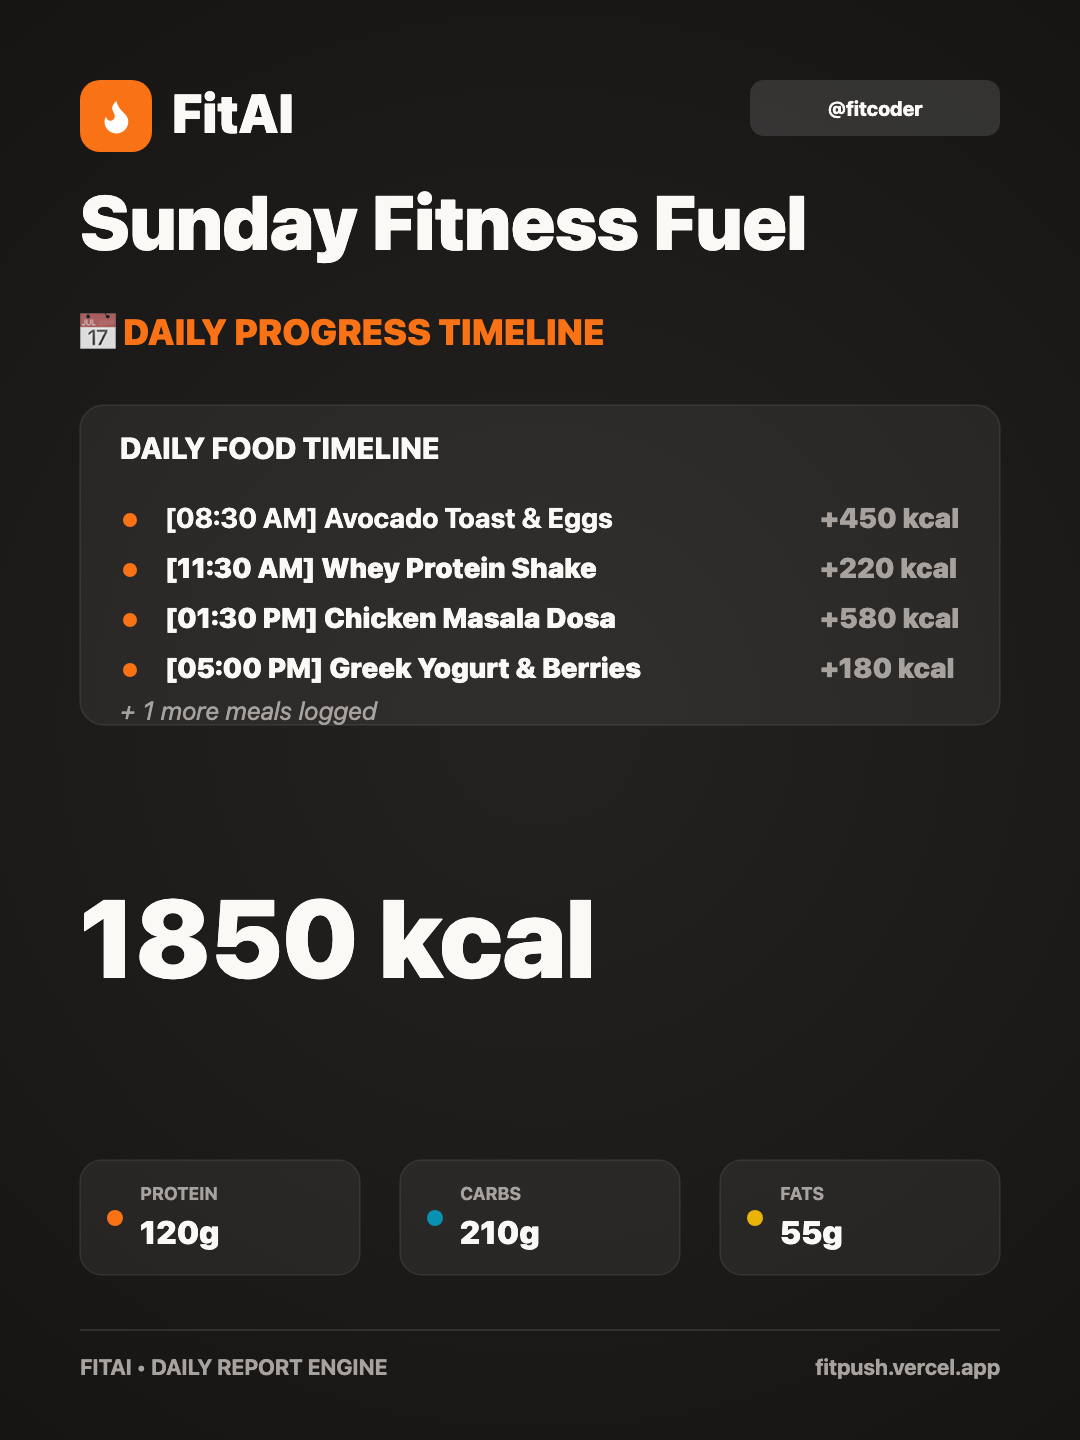
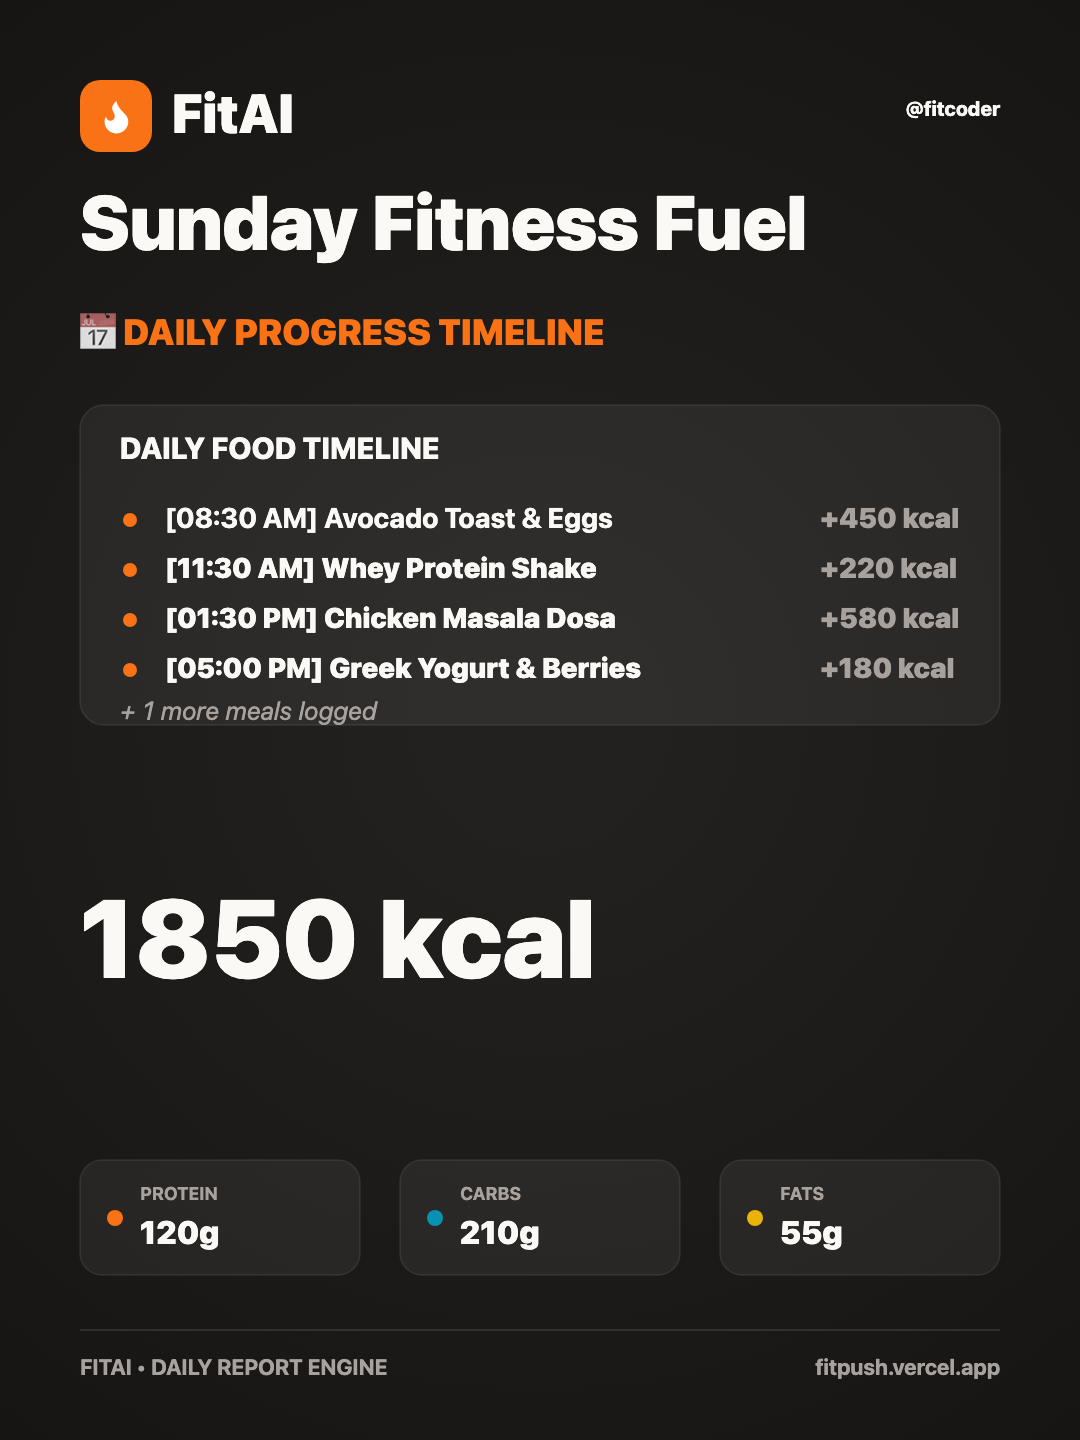
fix: remove handle background containers, right-align handles, update gpt action openapi schema with missing fiber property, and instruct gpt to output short titles

Changed region(s): [[0.6722, 0.0312, 0.9472, 0.0938]]

diff --git a/src/components/MealShareModal.tsx b/src/components/MealShareModal.tsx
@@ -57,6 +57,7 @@ export const MealShareModal: React.FC<MealShareModalProps> = ({
   const time = item.time || "12:00 PM";
   const image = item.image || "";
 
+
   const payload = useMemo(() => compressMeal(item), [item]);
   const finalLink = shortUrl || generateShareUrl("meal", payload);
 
@@ -394,18 +395,10 @@ export const MealShareModal: React.FC<MealShareModalProps> = ({
       ctx.fillText("FitAI", 172, 116);
       ctx.textBaseline = "alphabetic";
 
-      // Creator Badge
-      ctx.fillStyle = isEditorial 
-        ? "rgba(26,23,21,0.06)" 
-        : "rgba(255, 255, 255, 0.12)";
-      ctx.beginPath();
-      ctx.roundRect(750, 80, 250, 56, 14);
-      ctx.fill();
-
       ctx.fillStyle = isEditorial ? "#1A1715" : textColor;
       ctx.font = creatorBadgeFont;
-      ctx.textAlign = "center";
-      ctx.fillText(handleStr, 875, 116);
+      ctx.textAlign = "right";
+      ctx.fillText(handleStr, 1000, 116);
       ctx.textAlign = "left";
 
       // 3. Render layouts
@@ -418,13 +411,21 @@ export const MealShareModal: React.FC<MealShareModalProps> = ({
         ctx.font = "700 24px Inter, system-ui, sans-serif";
         ctx.fillText(`⏱ LOGGED AT ${time}`, 80, subtitleY);
 
+        // Draw description below subtitle on Obsidian card
+        const mealDesc = item.meal_description || "";
+        let descEndY = subtitleY;
+        if (mealDesc) {
+          descEndY = wrapText(mealDesc, 80, subtitleY + 45, 920, 34, "rgba(255,255,255,0.7)", "500 22px Inter, system-ui, sans-serif");
+        }
+
+        const calY = Math.max(560, descEndY + 110);
         ctx.fillStyle = textColor;
         ctx.font = "900 130px Inter, system-ui, sans-serif";
-        ctx.fillText(`${calories}`, 80, 560);
+        ctx.fillText(`${calories}`, 80, calY);
 
         ctx.fillStyle = textMuted;
         ctx.font = "700 24px Inter, system-ui, sans-serif";
-        ctx.fillText("TOTAL KCAL", 85, 615);
+        ctx.fillText("TOTAL KCAL", 85, calY + 55);
 
         drawMacrosAndFooter(820);
       } else if (isEditorial) {

diff --git a/src/components/RecipeShareModal.tsx b/src/components/RecipeShareModal.tsx
@@ -412,16 +412,10 @@ export const RecipeShareModal: React.FC<RecipeShareModalProps> = ({
       ctx.fillText("FitAI", 172, 116);
       ctx.textBaseline = "alphabetic";
 
-      // Creator Badge
-      ctx.fillStyle = creatorBadgeFill;
-      ctx.beginPath();
-      ctx.roundRect(750, 80, 250, 56, 14);
-      ctx.fill();
-
       ctx.fillStyle = isEditorial ? "#1A1715" : textColor;
       ctx.font = creatorBadgeFont;
-      ctx.textAlign = "center";
-      ctx.fillText(handleStr, 875, 116);
+      ctx.textAlign = "right";
+      ctx.fillText(handleStr, 1000, 116);
       ctx.textAlign = "left";
 
       // Layout rendering

diff --git a/src/components/DayShareModal.tsx b/src/components/DayShareModal.tsx
@@ -209,16 +209,10 @@ export const DayShareModal: React.FC<DayShareModalProps> = ({
       ctx.fillText("FitAI", 172, 116);
       ctx.textBaseline = "alphabetic";
 
-      // Creator Badge
-      ctx.fillStyle = creatorBadgeFill;
-      ctx.beginPath();
-      ctx.roundRect(750, 80, 250, 56, 14);
-      ctx.fill();
-
       ctx.fillStyle = creatorBadgeTextColor;
       ctx.font = creatorBadgeFont;
-      ctx.textAlign = "center";
-      ctx.fillText(handleStr, 875, 116);
+      ctx.textAlign = "right";
+      ctx.fillText(handleStr, 1000, 116);
       ctx.textAlign = "left";
 
       // Layout rendering

diff --git a/gpt/instructions.md b/gpt/instructions.md
@@ -17,10 +17,9 @@ If getProfile succeeds and knowledge is empty:
 Active unless in Discussion Mode. Keep replies minimal, no greetings or filler.
 - Read agent_config from getProfile. Obey customInstructions.
 - Auto Timezone: Use timezone from profile settings (default to UTC).
-- Log first: Call logMeal immediately when food is described, recipe shortcut used, or photo uploaded. Do not pre-confirm.
-- Precise estimates: Exact single values only (no ranges) for calories, protein, carbs, fats, and fiber. Prefix calories with ≈.
-- Auto Meal Type: Select Breakfast/Lunch/Dinner/Snack based on local time.
-- Nutritional Score: Score 1-10 (protein, fiber, micro quality). Prepend "[Score: X/10] {short critique}" to meal_description in logMeal.
+- Auto Meal Type & Short Titles: Set the meal name to a clean, short title (e.g. "Breakfast", "Lunch", "Dinner", or "Snack") based on local logging time. Keep names strictly limited to 1-2 words.
+- Move Long Food Details to Description: If the food described contains multiple items or a long list (e.g., "Ragi rotis with omelette, vegetable curry..."), do NOT use it as the meal name. Put that detailed food list at the very beginning of the `meal_description` field.
+- Nutritional Score: Score 1-10 (protein, fiber, micro quality). Prepend "[Score: X/10] {short critique}" to the meal_description in logMeal.
 - Tool Verification: If call fails/denied, output: "Connection denied. I couldn't log the meal on FitAI." Never fake success.
 - Concise: Output ONLY the user-facing Success Format below. Do NOT leak JSON, API responses, or logs.
 
